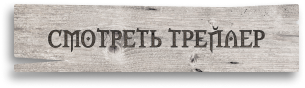
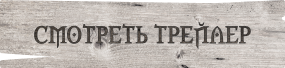
feat: add header, navigation, present

diff --git a/index.html b/index.html
@@ -5,12 +5,13 @@
     <meta http-equiv="X-UA-Compatible" content="IE=edge">
     <meta name="viewport" content="width=device-width, initial-scale=1.0">
     <title>The Witcher | Ведьмак | 2 сезон 17 декабря</title>
+    <link rel="preload" href="fonts/ibm-plex-mono-latin_cyrillic-500.woff2" as="font" type="font/woff2" crossorigin>
     <link rel="stylesheet" href="css/index.css">
 </head>
 <body>
     <header class="header">
-        <div class="container">
-            <img src="img/logo.svg" alt="лого сериала The Witcher" class="header__logo">
+        <div class="container header__container">
+            <img src="img/logo.svg" alt="лого сериала The Witcher" width="93" height="85" class="header__logo">
             <p class="header__announcment">2 сезон уже с 17 декабря</p>
             <nav class="header__navigation navigation">
                 <ul class="navigation__list">
@@ -32,8 +33,9 @@
         <div class="container">
             <div class="present__hero">
                 <h1 class="present__title">Ведьмак</h1>
-                <p class="present__tagline">Те, кто связан предназначением, всегда найдут друг друга</p>
-                <a href="https://youtu.be/PQ59CmCyOk4" class="present__btn">Watch trailer</a>
+                <p class="present__tagline">Те, кто связан предназначением, 
+                    всегда найдут друг друга</p>
+                <a href="https://youtu.be/PQ59CmCyOk4" class="present__btn"></a>
             </div>
             <div class="present__tabs tabs">
                 <ul class="tabs__control">

diff --git a/css/navigation.css b/css/navigation.css
@@ -1,0 +1,25 @@
+.navigation__list {
+    display: flex;
+    gap: 25px;
+}
+
+.navigation__link {
+    display: block;
+    width: 40px;
+    height: 40px;
+    border-radius: 50%;
+    background-color: rgba(255, 255, 255, 0.7);
+    background-position: center;
+    background-repeat: no-repeat;
+    border: 1px solid transparent;
+    transition: border 0.3s ease-in-out, box-shadow 0.3s ease-in-out;
+    outline: 0;
+}
+
+.navigation__link:focus {
+    border-color: #5B5B5B;
+}
+
+.navigation__link:active, .navigation__link:hover {
+    box-shadow: 0px 1px 5px rgba(0, 0, 0, 0.7);
+}

diff --git a/css/present.css b/css/present.css
@@ -1,0 +1,27 @@
+.present {
+    padding-top: 27px;
+}
+
+.present__title {
+    font-family: 'IBM Plex Mono';
+    font-weight: 500;
+    font-size: 90px;
+    line-height: 120%;
+    margin-bottom: 8px;
+}
+
+.present__tagline {
+    line-height: 130%;
+    margin-bottom: 54px;
+}
+
+.present__btn {
+    display: block;
+    width: 285px;
+    height: 68px;
+    background-image: url(../img/button.png);
+    filter: drop-shadow(-4px 6px 10px rgba(10, 10, 10, 0.51));
+    border-radius: 2px;
+    background-position: center;
+    background-size: cover;
+}

diff --git a/css/header.css b/css/header.css
@@ -1,0 +1,31 @@
+.header {
+    padding-top: 20px;
+    padding-bottom: 10px;
+}
+
+.header__container {
+    display: grid;
+    grid-template-columns: repeat(3, 1fr);
+    align-items: center;
+}
+
+.header__announcment {
+    justify-self: center;
+}
+
+.header__navigation {
+    justify-self: end;
+}
+
+.navigation__link_netflix {
+    background-image: url('../img/netflix.svg');
+    
+}
+
+.navigation__link_okko {
+    background-image: url('../img/okko.svg');
+}
+
+.navigation__link_kinopoisk {
+    background-image: url('../img/kinopoisk.svg');
+}

diff --git a/css/index.css b/css/index.css
@@ -1,3 +1,6 @@
 @import 'normalize.css';
 @import 'fonts.css';
-@import 'page.css'
+@import 'page.css';
+@import 'header.css';
+@import 'navigation.css';
+@import 'present.css';
